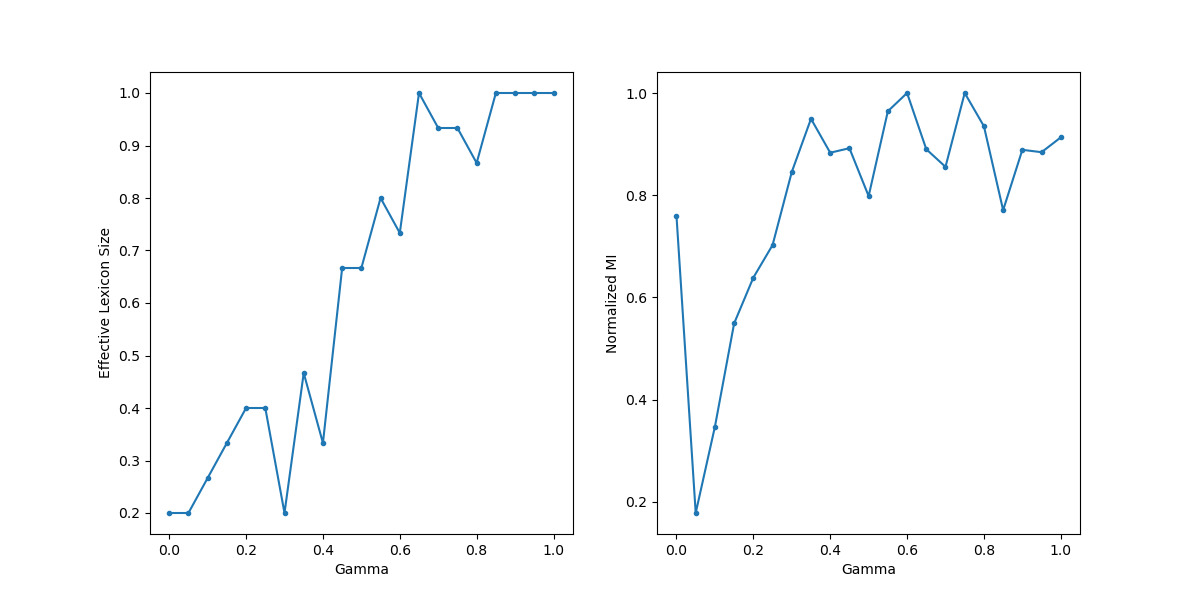
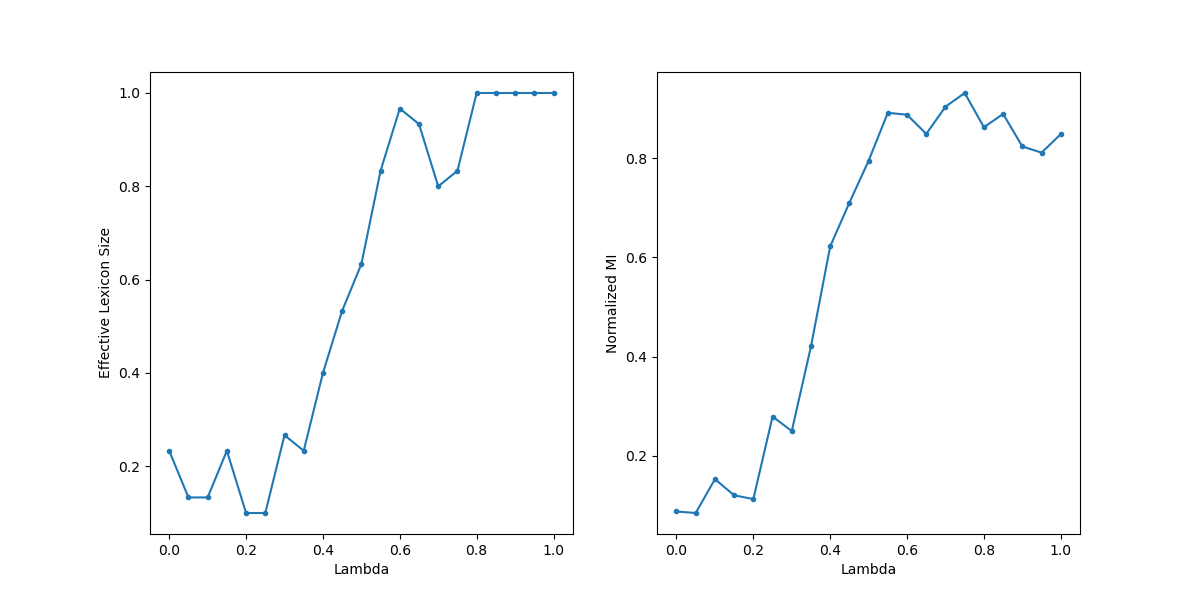
Increase scale, correct MI

diff --git a/models.py b/models.py
@@ -19,7 +19,7 @@ def entropy(p):
 
 def conditional_entropy(matrix):
     prob = matrix.sum(axis=0) / np.sum(matrix) #P(S)
-    cond_prob = np.where(matrix.sum(axis=0) == 0, 1 / matrix.shape[0], matrix / matrix.sum(axis=0)) # P(r(=1:4) | S); Empty signals are equally likely to refer to any object
+    cond_prob = np.where(matrix.sum(axis=0) == 0, 0, matrix / matrix.sum(axis=0)) # P(r(=1:4) | S); Empty signals are equally likely to refer to any object
 
     cond_entropy = entropy(cond_prob) / np.log(matrix.shape[0]) # Hnorm(r | S)
 
@@ -27,13 +27,11 @@ def conditional_entropy(matrix):
 
 def mutual_information(matrix):
   sig_prob = matrix.sum(axis=0) / np.sum(matrix) # P(S)
-  # ref_prob = matrix.sum(axis=1) / np.sum(matrix) # P(R)
 
   sig_entropy = np.sum(entropy(sig_prob)) / np.log(np.size(sig_prob))
-  # ref_entropy = np.sum(entropy(ref_prob))
   cond_entropy = np.sum(conditional_entropy(matrix.T))
 
-  return (sig_entropy - cond_entropy)  / sig_entropy
+  return (sig_entropy - cond_entropy)  #/ sig_entropy
 
 
 ### REPLICATION - Ferrer i Cancho & Sole (2002) ###
@@ -46,41 +44,32 @@ class SignalEvolution:
       for col in range(self.mat.shape[1]):
         self.mat[row, col] = random.choices([0,1], weights=(1-density, density), k=1)[0]
 
-  def energy_function(self, matrix, gamma):
+  def energy_function(self, matrix, lam):
     # Calculate entropy of speaker distribution
     sig_prob = matrix.sum(axis=0) / np.sum(matrix) # P(S)
     sig_entropy = np.sum(entropy(sig_prob)) / np.log(np.size(sig_prob)) # Hnorm(S)
 
-    # Calculate conditional entropy of references over speaker distribution ## Edit: transferred to conditional_entropy()
-
-    # r_cond_sig_prob = matrix / matrix.sum(axis=0) # P(r(=1:4) | S)
-    # r_cond_sig_prob[np.isnan(r_cond_sig_prob)] = 1 / matrix.shape[0] # If a ref has no signal
-
-    # r_cond_sig_entropy = entropy(r_cond_sig_prob) / np.log(matrix.shape[0]) # Hnorm(r | S)
-    # r_cond_sig_entropy = np.round(r_cond_sig_entropy, 4)
-
-    # ref_cond_sig_entropy = np.sum(r_cond_sig_entropy.sum(axis=0) * sig_prob) # Hnorm(R | S)
-
+    # Calculate conditional entropy of references over speaker distribution
     ref_cond_sig_entropy = np.sum(conditional_entropy(matrix))
 
     # Calculate cost
-    cost = (gamma * ref_cond_sig_entropy) + ((1-gamma) * sig_entropy)
+    cost = (lam * ref_cond_sig_entropy) + ((1-lam) * sig_entropy)
 
     return cost, ref_cond_sig_entropy, sig_entropy
 
-  def run_to_equilibrium(self, prob, gamma, stop, print_output=False):
+  def run_to_equilibrium(self, prob, lam, stop, print_output=False):
     counter = 0
     while(counter < stop):
       trans_mat = np.zeros((self.size, self.size))
       for row in range(trans_mat.shape[0]):
         for col in range(trans_mat.shape[1]):
-          trans_mat[row, col] = random.choices([0,1], weights=(1-prob, prob), k=1)[0]
+          trans_mat[row, col] = random.choices([0,1], weights=(1-prob, prob), k=1)[0] 
 
       new_mat = abs(self.mat - trans_mat)
 
       if 0 not in new_mat.mean(axis=1): # Disallow signless referents
-        old = self.energy_function(self.mat, gamma)
-        new = self.energy_function(new_mat, gamma)
+        old = self.energy_function(self.mat, lam)
+        new = self.energy_function(new_mat, lam)
 
         if(new[0] < old[0]):
           self.mat = new_mat
@@ -104,29 +93,20 @@ class JointSpeakerAlignment:
         for s2 in range(self.mat.shape[2]):
           self.mat[ref,s1, s2] = random.choices([0,1], weights=(1-density, density), k=1)[0]
 
-  def energy_function(self, matrix, gamma):
+  def energy_function(self, matrix, lam):
     # Calculate joint entropy between speaker distributions
     joint_prob = matrix.sum(axis=0) / np.sum(matrix) # P(S1, S2)
     joint_entropy = np.sum(entropy(joint_prob)) / np.log(np.size(joint_prob)) # Hnorm(S1, S2)
 
-    # Calculate conditional entropy of references over joint speaker distribution ## Edit: transferred to conditional_entropy()
-
-    # r_cond_joint_prob = matrix / matrix.sum(axis=0) # P(r(=1:4) | S1, S2)
-    # r_cond_joint_prob[np.isnan(r_cond_joint_prob)] = 1 / matrix.shape[0] # If a ref has no signal
-
-    # r_cond_joint_entropy = entropy(r_cond_joint_prob) / np.log(matrix.shape[0]) # Hnorm(r | S1, S2)
-    # r_cond_joint_entropy = np.round(r_cond_joint_entropy, 4)
-
-    # ref_cond_joint_entropy = np.sum(r_cond_joint_entropy.sum(axis=0) * joint_prob) # Hnorm(R | S1, S2)
-
+    # Calculate conditional entropy of references over joint speaker distribution
     ref_cond_joint_entropy = np.sum(conditional_entropy(matrix))
 
     # Calculate cost
-    cost = (gamma * ref_cond_joint_entropy) + ((1-gamma) * joint_entropy)
+    cost = (lam * ref_cond_joint_entropy) + ((1-lam) * joint_entropy)
 
     return cost, ref_cond_joint_entropy, joint_entropy
 
-  def run_to_equilibrium(self, prob, gamma, stop, print_output=False):
+  def run_to_equilibrium(self, prob, lam, stop, print_output=False):
     counter = 0
     while(counter < stop):
       trans_mat = np.zeros((self.size, self.size, self.size))
@@ -137,8 +117,8 @@ class JointSpeakerAlignment:
 
       new_mat = abs(self.mat - trans_mat)
 
-      old = self.energy_function(self.mat, gamma)
-      new = self.energy_function(new_mat, gamma)
+      old = self.energy_function(self.mat, lam)
+      new = self.energy_function(new_mat, lam)
 
       if(new[0] < old[0]):
         self.mat = new_mat

diff --git a/replication.py b/replication.py
@@ -3,29 +3,29 @@ from math import comb
 import matplotlib.pyplot as plt
 from models import *
 
-n = 15
+n = 30
 r = 0.5 # SDIC?
 v = 2 / comb(n, 2)
 t = 2 * (n**2)
-gamma_values = np.linspace(0, 1, 21)
+lambda_values = np.linspace(0, 1, 21)
 
 
 ### Run model ###
 
 count = 0
-l = []
+lex = []
 mi = []
-for g in gamma_values:
+for l in lambda_values:
   print(f'Run: #{count}')
 
   m = SignalEvolution(size=n, density=r)
-  result = m.run_to_equilibrium(prob=v, gamma=g, stop=t)
-  print(m.energy_function(result, g))
+  result = m.run_to_equilibrium(prob=v, lam=l, stop=t)
+  print(m.energy_function(result, l))
 
   # Effective lexicon size:
   lexicon = result.sum(axis=0)
   lexicon[lexicon > 0] = 1
-  l.append(np.sum(lexicon)/n)
+  lex.append(np.sum(lexicon)/n)
 
   # Mutual information: I(S, R)
   mi.append(mutual_information(result))
@@ -37,12 +37,12 @@ for g in gamma_values:
 
 fig, axs = plt.subplots(1, 2, figsize=(12, 6))
 
-axs[0].plot(gamma_values, l, '.-')
-axs[0].set_xlabel("Gamma")
+axs[0].plot(lambda_values, lex, '.-')
+axs[0].set_xlabel("Lambda")
 axs[0].set_ylabel("Effective Lexicon Size")
 
-axs[1].plot(gamma_values, mi, '.-')
-axs[1].set_xlabel("Gamma")
+axs[1].plot(lambda_values, mi, '.-')
+axs[1].set_xlabel("Lambda")
 axs[1].set_ylabel("Normalized MI")
 
 plt.savefig("figures/rep_lexicon_and_MI.png")

diff --git a/extension.py b/extension.py
@@ -7,25 +7,25 @@ n = 15
 r = 0.5 # SDIC?
 v = 2 / comb(n, 2)
 t = 3 * (n**2)
-gamma_values = np.linspace(0, 1, 21)
+lambda_values = np.linspace(0, 1, 21)
 
 
 ### Run model ###
 
 count = 0
-l = []
+lex = []
 mi = []
-for g in gamma_values:
+for l in lambda_values:
   print(f'Run: #{count}')
 
   m = JointSpeakerAlignment(size=n, density=r)
-  result = m.run_to_equilibrium(prob=v, gamma=g, stop=t)
-  print(m.energy_function(result, g))
+  result = m.run_to_equilibrium(prob=v, lam=l, stop=t)
+  print(m.energy_function(result, l))
 
   # Effective lexicon size:
   lexicon = result.sum(axis=0)
   lexicon[lexicon > 0] = 1
-  l.append(np.sum(lexicon)/n**2)
+  lex.append(np.sum(lexicon)/n**2)
 
   # s1_lexicon = result.sum(axis=1).sum(axis=0)
   # s1_lexicon[s1_lexicon > 0] = 1
@@ -47,12 +47,12 @@ for g in gamma_values:
 
 fig, axs = plt.subplots(1, 2, figsize=(12, 6))
 
-axs[0].plot(gamma_values, l, '.-')
-axs[0].set_xlabel("Gamma")
+axs[0].plot(lambda_values, lex, '.-')
+axs[0].set_xlabel("Lambda")
 axs[0].set_ylabel("Effective Lexicon Size")
 
-axs[1].plot(gamma_values, mi, '.-')
-axs[1].set_xlabel("Gamma")
+axs[1].plot(lambda_values, mi, '.-')
+axs[1].set_xlabel("Lambda")
 axs[1].set_ylabel("Normalized MI")
 
 plt.savefig("figures/ext_lexicon_and_MI.png")
